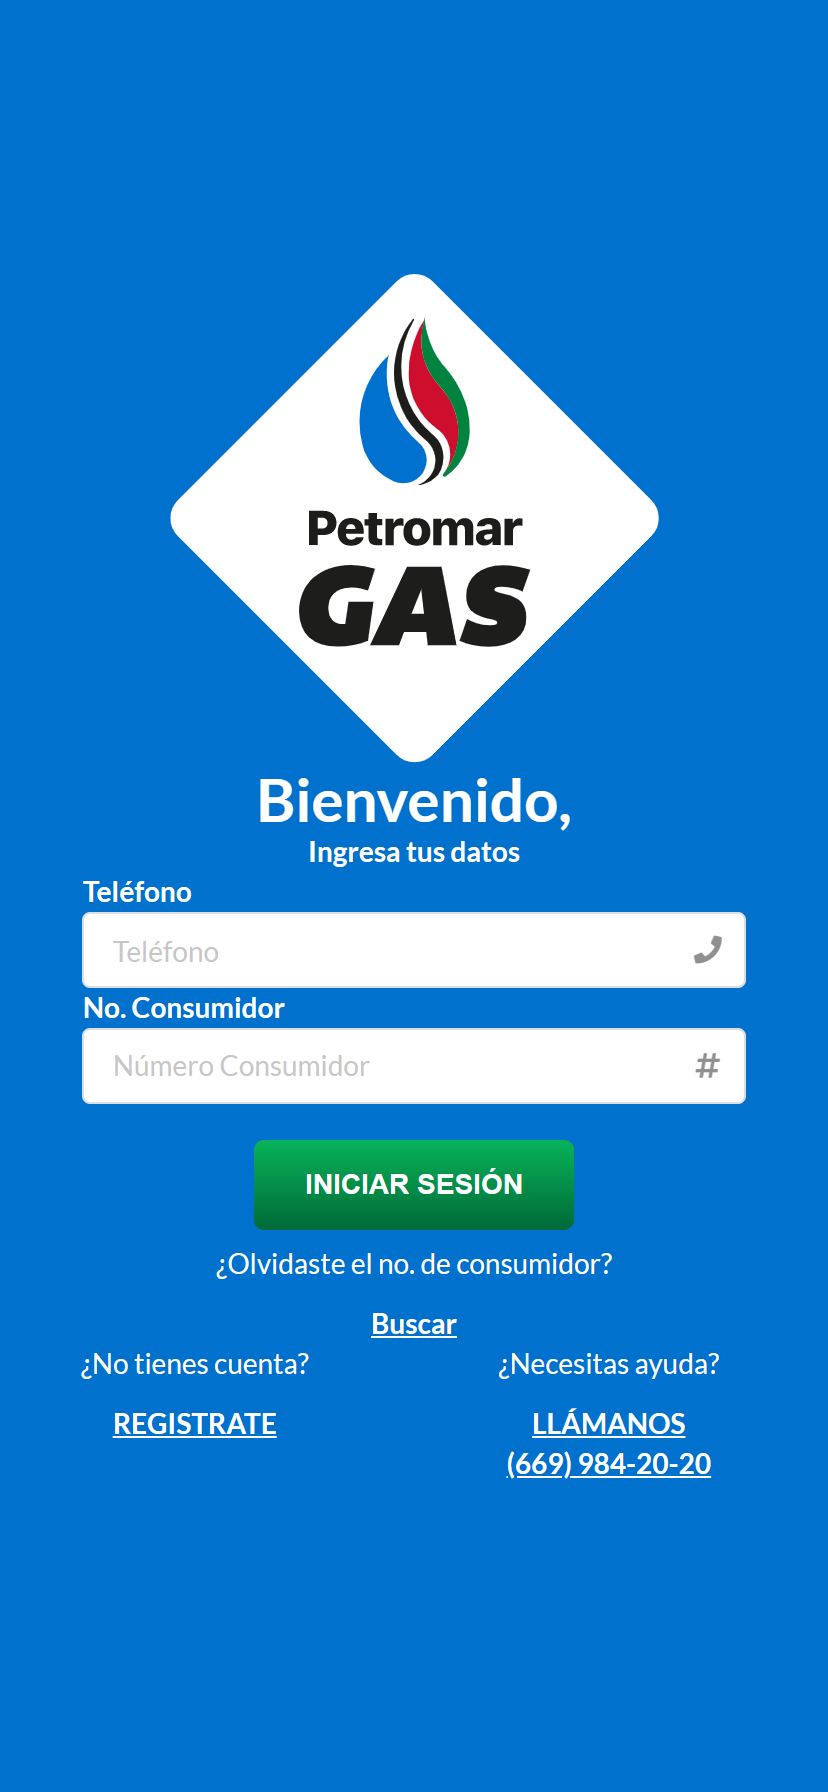
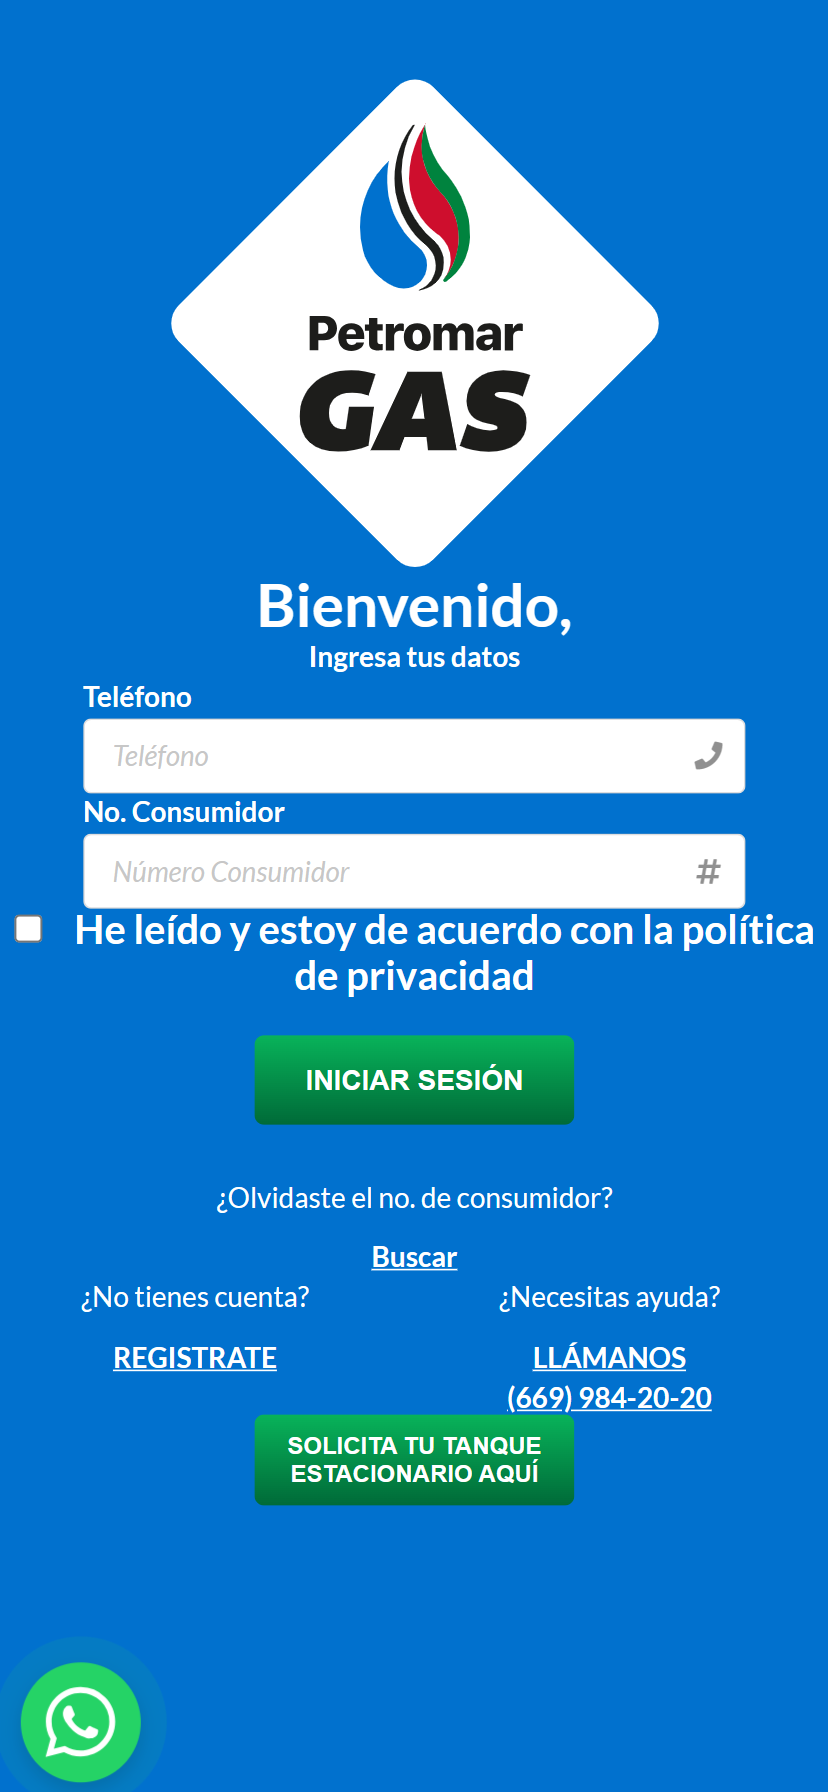
20240113- Sección Ayuda (Actualizacion/Nuevas imagenes)

diff --git a/src/Ayuda.js b/src/Ayuda.js
@@ -15,6 +15,8 @@ import altaPedido from './resources/altaPedido.png';
 import pedidoRealizado from './resources/pedidoRealizado.png';
 import actualizarDatos from './resources/actualizarDatos.png';
 import notificacionActualizar from './resources/notificacionActualizar.png';
+import solicitudTanque from './resources/solicitudTanque.png';
+import menuLateral from './resources/menuLateral.png';
 
 function Ayuda(props){
 
@@ -85,12 +87,12 @@ function Ayuda(props){
                 Haga clic en <span style={{fontWeight:'bold', textDecoration: 'underline'}} >Registrate</span>, se 
                 mostrará la pantalla donde 
                 tiene que ingresar todos sus 
-                datos. Una vez concluido el 
-                registro al momento de dar 
+                datos y aceptar la política de privacidad.
+                Una vez concluido el 
+                llenado de los datos al momento de dar 
                 regístrate se mostrará un 
                 mensaje con su consumidor
-                asignado el momento de 
-                terminar su registro.
+                asignado en ese momento.
                 </p> 
                 <p style={{fontWeight:'bold', padding: '10px'}} align="justify">Los campos marcados con un 
                 * son obligatorios y no pueden 
@@ -137,8 +139,23 @@ function Ayuda(props){
                 <p style={{fontWeight:'bold', padding: '10px'}} align="justify">Los campos marcados con un 
                 * son obligatorios y no pueden 
                 quedar vacíos.</p>
-                <>&nbsp;</>
                   
+                <h3  align="center">Solicitud de tanque estacionario</h3>
+                <div style={{justifyContent: 'space-between', columnGap:'0.875rem', width:'65%', display:'flex', flexDirection:'row'}}> 
+                        <div style={{width:'90%'}} align="center"> 
+                            <img style={{width:'100%', borderRadius:'5px', boxShadow: 'rgb(0 0 0 / 45%) 0px 5px 15px' }} src={menuLateral}/>
+                        </div>
+                        <div style={{width:'90%'}} align="center">
+                            <img style={{width:'100%', borderRadius:'5px', boxShadow: 'rgb(0 0 0 / 45%) 0px 5px 15px' }} src={solicitudTanque}/>
+                        </div>
+                </div>
+                <p style={{padding: '10px', margin:'0px'}} align="justify">
+                En el caso de solicitar información para la compra de un tanque estacionario, 
+                tenemos que rellenar el siguiente formulario, 
+                y seleccionar una capacidad de tanque de nuestra preferencia.
+                Una vez enviada nuestra solicitud el personal de callcenter se pondrá en contacto con nosotros.
+                </p> 
+                <>&nbsp;</>
                 </div>
                 <br></br>
                 <br></br> 
